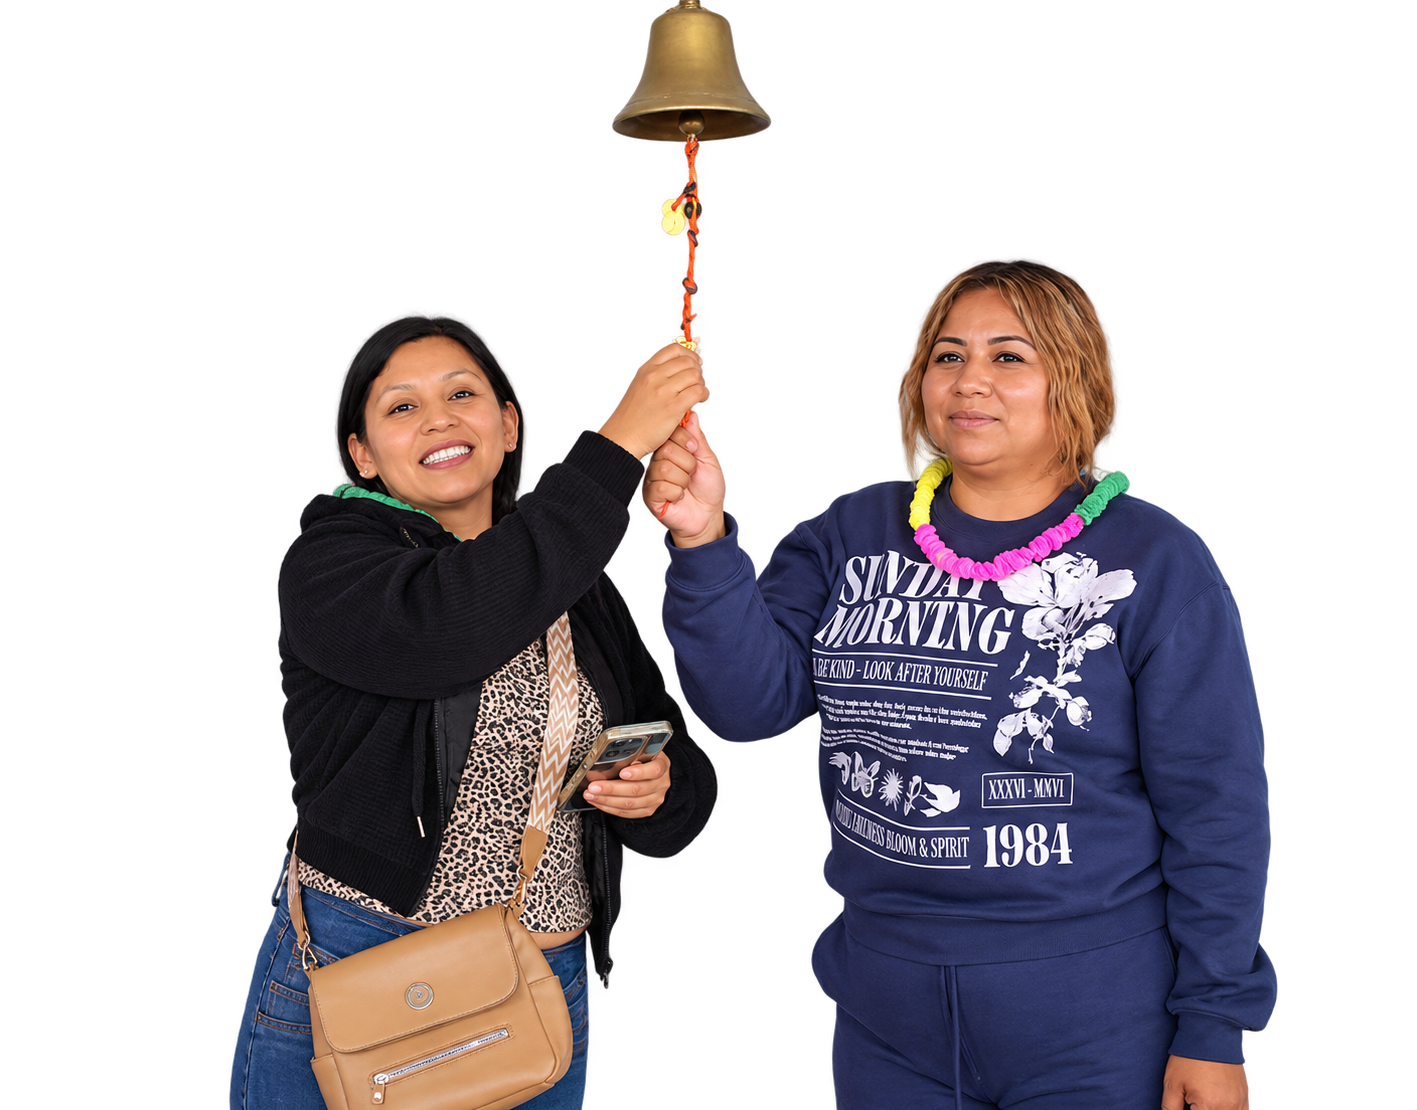
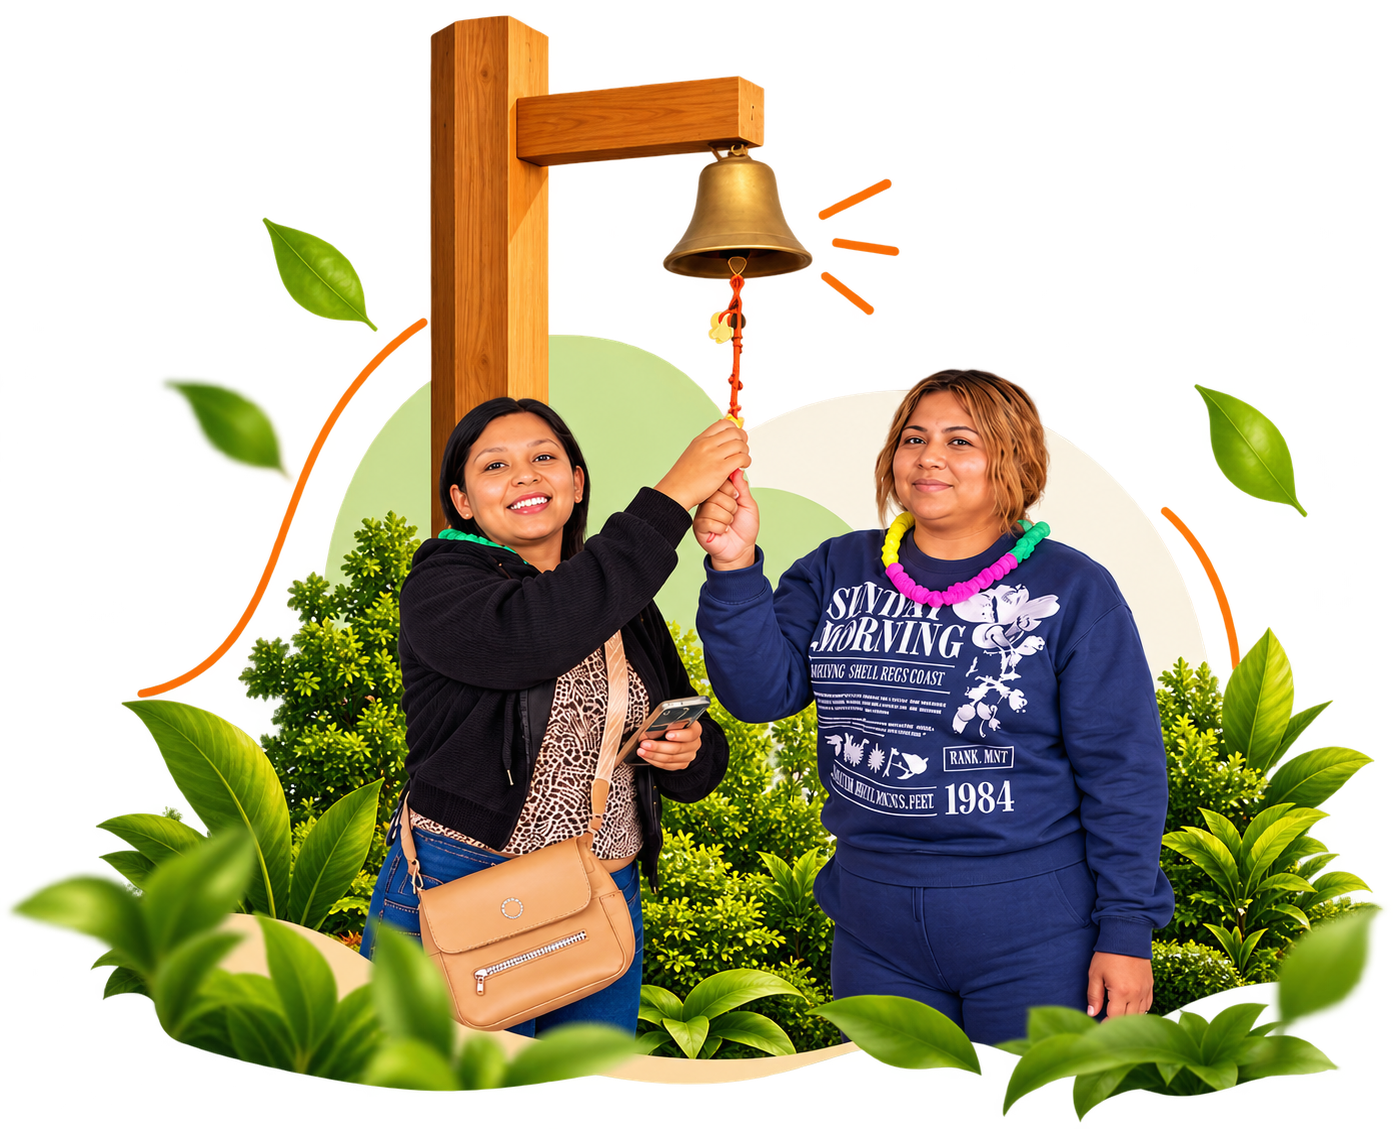
Add FAQ section and refine home page

diff --git a/src/app/features/home/components/faq/faq.component.html b/src/app/features/home/components/faq/faq.component.html
@@ -1,0 +1,91 @@
+<section id="preguntas-frecuentes" aria-labelledby="faq-title" class="relative isolate overflow-hidden bg-[#f4f1ea] px-5 py-16 text-[#1f1a14] sm:px-8 sm:py-20 lg:py-24">
+
+  <div class="relative mx-auto max-w-[1400px]">
+    <header class="mb-9 sm:mb-12">
+      <p class="mb-3 flex items-center gap-3 text-xs font-extrabold uppercase tracking-[0.18em] text-[var(--brand-tertiary)]">
+        <span class="h-1 w-12 bg-[var(--brand-primary)]" aria-hidden="true"></span>
+        Estamos para ayudarte
+      </p>
+      <h2 id="faq-title" class="m-0 text-balance font-serif text-[clamp(2.4rem,5vw,4rem)] font-semibold leading-[1.02] tracking-[-0.04em] text-[#0b442d]">
+        Conoce Montepinar y resuelve tus dudas
+      </h2>
+      <p class="mb-0 mt-4 max-w-4xl text-base leading-relaxed text-[#34433d]/80 sm:text-lg">
+        Te compartimos información clave en este video y resolvemos las preguntas más frecuentes para que avances con confianza en tu próximo terreno.
+      </p>
+    </header>
+
+    <div class="grid items-center gap-5 lg:grid-cols-[1.2fr_1fr] lg:gap-5">
+      <div class="relative aspect-[1.55] min-h-[18rem] overflow-hidden rounded-2xl bg-[#10271c] sm:aspect-[1.75] lg:min-h-[28rem]">
+        <video
+          #faqVideo
+          class="absolute inset-0 size-full object-cover"
+          poster="/images/entrada.png"
+          preload="none"
+          [controls]="videoPlaying()"
+          playsinline
+          aria-label="Video de presentación de los proyectos Montepinar"
+          (pause)="onVideoPause()"
+          (ended)="onVideoPause()"
+        >
+          <source src="/video/MONTEPINAR.mp4" type="video/mp4" />
+          Tu navegador no puede reproducir este video.
+        </video>
+        <div class="pointer-events-none absolute inset-0 bg-gradient-to-t from-[#10271c]/85 via-transparent to-transparent" aria-hidden="true"></div>
+        @if (!videoPlaying()) {
+          <button
+            type="button"
+            class="absolute left-1/2 top-1/2 grid size-[4.5rem] -translate-x-1/2 -translate-y-1/2 place-items-center rounded-full bg-white text-[var(--brand-primary)] shadow-xl transition-transform hover:scale-105 focus-visible:outline-none focus-visible:ring-4 focus-visible:ring-white/70 active:scale-95"
+            aria-label="Reproducir video de Montepinar"
+            (click)="playVideo(faqVideo)"
+          >
+            <span class="ml-1 text-3xl" aria-hidden="true">▶</span>
+          </button>
+        }
+        <p class="pointer-events-none absolute inset-x-6 bottom-5 m-0 font-serif text-xl font-bold leading-tight text-white sm:inset-x-8 sm:bottom-7 sm:text-2xl">
+          Conoce nuestros proyectos
+        </p>
+      </div>
+
+      <div class="rounded-2xl border border-[#10271c]/10 bg-white/35 px-5 sm:px-8">
+        <div class="divide-y divide-[#10271c]/15">
+          <details class="group py-5 sm:py-6">
+            <summary class="flex cursor-pointer list-none items-center justify-between gap-5 text-left text-base font-bold text-[#0b442d] marker:content-none sm:text-lg">
+              ¿Qué tipos de lotes ofrece Montepinar?
+              <span class="grid size-10 shrink-0 place-items-center rounded-full border border-[#10271c]/20 text-2xl font-normal leading-none text-[var(--brand-primary)] transition-transform group-open:rotate-45" aria-hidden="true">+</span>
+            </summary>
+            <p class="mb-0 max-w-2xl pr-10 pt-3 text-sm leading-relaxed text-[#1f1a14]/70 sm:text-base">
+              Contamos con distintas opciones según el proyecto y la etapa. Nuestro equipo puede ayudarte a conocer las áreas disponibles y encontrar la que mejor se ajuste a tus planes.
+            </p>
+          </details>
+          <details class="group py-5 sm:py-6">
+            <summary class="flex cursor-pointer list-none items-center justify-between gap-5 text-left text-base font-bold text-[#0b442d] marker:content-none sm:text-lg">
+              ¿Cómo puedo conocer las opciones de financiamiento?
+              <span class="grid size-10 shrink-0 place-items-center rounded-full border border-[#10271c]/20 text-2xl font-normal leading-none text-[var(--brand-primary)] transition-transform group-open:rotate-45" aria-hidden="true">+</span>
+            </summary>
+            <p class="mb-0 max-w-2xl pr-10 pt-3 text-sm leading-relaxed text-[#1f1a14]/70 sm:text-base">
+              Podemos orientarte sobre las alternativas disponibles para cada proyecto y explicarte los pasos para iniciar una compra.
+            </p>
+          </details>
+          <details class="group py-5 sm:py-6">
+            <summary class="flex cursor-pointer list-none items-center justify-between gap-5 text-left text-base font-bold text-[#0b442d] marker:content-none sm:text-lg">
+              ¿Puedo visitar el proyecto antes de decidir?
+              <span class="grid size-10 shrink-0 place-items-center rounded-full border border-[#10271c]/20 text-2xl font-normal leading-none text-[var(--brand-primary)] transition-transform group-open:rotate-45" aria-hidden="true">+</span>
+            </summary>
+            <p class="mb-0 max-w-2xl pr-10 pt-3 text-sm leading-relaxed text-[#1f1a14]/70 sm:text-base">
+              Sí. Escríbenos o solicita una asesoría para coordinar una visita y conocer el proyecto en persona.
+            </p>
+          </details>
+          <details class="group py-5 sm:py-6">
+            <summary class="flex cursor-pointer list-none items-center justify-between gap-5 text-left text-base font-bold text-[#0b442d] marker:content-none sm:text-lg">
+              ¿Cómo solicito más información?
+              <span class="grid size-10 shrink-0 place-items-center rounded-full border border-[#10271c]/20 text-2xl font-normal leading-none text-[var(--brand-primary)] transition-transform group-open:rotate-45" aria-hidden="true">+</span>
+            </summary>
+            <p class="mb-0 max-w-2xl pr-10 pt-3 text-sm leading-relaxed text-[#1f1a14]/70 sm:text-base">
+              Déjanos tus datos en el formulario de contacto y nuestro equipo se comunicará contigo para atender tus consultas.
+            </p>
+          </details>
+        </div>
+      </div>
+    </div>
+  </div>
+</section>

diff --git a/src/app/features/home/components/vision360/vision360.component.html b/src/app/features/home/components/vision360/vision360.component.html
@@ -1,14 +1,14 @@
-<section #root id="vision-360" class="bg-[var(--brand-tertiary)]  px-5 py-[clamp(4.5rem,8vw,7.5rem)] sm:px-8">
-  <div class="mx-auto max-w-7xl rounded-[2rem] px-5 py-10 text-white  sm:px-10 sm:py-14 lg:px-9 lg:py-16">
+<section #root id="vision-360" class="bg-accent py-[clamp(4.5rem,8vw,7.5rem)] text-[#1f1a14] ">
+  <div class="mx-auto w-[min(88%,1400px)]">
     <header data-vision-copy class="mb-9 max-w-3xl sm:mb-12">
-      <p class="mb-5 flex items-center gap-3 text-xs font-extrabold uppercase tracking-[0.16em] text-white/80">
+      <p class="mb-5 flex items-center gap-3 text-xs font-extrabold uppercase tracking-[0.16em] text-[var(--brand-tertiary)]">
         <span class="h-0.5 w-9 bg-[var(--brand-primary)]" aria-hidden="true"></span>
         Recorrido virtual
       </p>
       <h2 class="m-0 max-w-[14ch] text-balance text-[clamp(2.5rem,5vw,4.5rem)] font-extrabold leading-[1.02] tracking-[-0.045em]">
         Explora Montepinar en 360°
       </h2>
-      <p class="mb-0 mt-5 max-w-2xl text-pretty text-base leading-relaxed text-white/80 sm:text-lg">
+      <p class="mb-0 mt-5 max-w-2xl text-pretty text-base leading-relaxed text-[#1f1a14]/70 sm:text-lg">
         Entra al recorrido, elige las zonas que quieres conocer y desplázate por la vista para observar cada espacio.
       </p>
     </header>
@@ -40,19 +40,19 @@
       </p>
     </div>
 
-    <div class="mt-7 grid grid-cols-1 gap-5 border-t border-white/20 pt-6 sm:grid-cols-2 sm:gap-10 sm:pt-7">
+    <div class="mt-7 grid grid-cols-1 gap-5 border-t border-[#1f1a14]/15 pt-6 sm:grid-cols-2 sm:gap-10 sm:pt-7">
       <div data-vision-step class="flex items-start gap-4">
         <span class="grid size-10 shrink-0 place-items-center rounded-full bg-[var(--brand-primary)] text-sm font-extrabold text-[#1f1a14]" aria-hidden="true">01</span>
         <div>
           <h3 class="m-0 text-base font-extrabold">Elige una zona</h3>
-          <p class="mb-0 mt-1 text-sm leading-relaxed text-white/75 sm:text-base">Haz clic en los espacios señalados para entrar a cada área del proyecto.</p>
+          <p class="mb-0 mt-1 text-sm leading-relaxed text-[#1f1a14]/70 sm:text-base">Haz clic en los espacios señalados para entrar a cada área del proyecto.</p>
         </div>
       </div>
       <div data-vision-step class="flex items-start gap-4">
         <span class="grid size-10 shrink-0 place-items-center rounded-full bg-[var(--brand-primary)] text-sm font-extrabold text-[#1f1a14]" aria-hidden="true">02</span>
         <div>
           <h3 class="m-0 text-base font-extrabold">Mira a tu alrededor</h3>
-          <p class="mb-0 mt-1 text-sm leading-relaxed text-white/75 sm:text-base">Arrastra la vista para desplazarte y observar los detalles.</p>
+          <p class="mb-0 mt-1 text-sm leading-relaxed text-[#1f1a14]/70 sm:text-base">Arrastra la vista para desplazarte y observar los detalles.</p>
         </div>
       </div>
     </div>

diff --git a/src/app/features/home/components/introduccion/introduccion.component.html b/src/app/features/home/components/introduccion/introduccion.component.html
@@ -1,16 +1,16 @@
-<section #root id="nosotros"
-  class="bg-primary-foreground pt-[clamp(4.5rem,10vw,9rem)] text-[var(--brand-forest-900)]">
+<section #root id="nosotro  s"
+  class="bg-primary-foreground pt-[clamp(4.5rem,10vw,9rem)] text-[var(--brand-forest-900)] ">
   <div
-    class="mx-auto grid w-[min(88%,1400px)] items-center gap-12 pb-[clamp(4.5rem,9vw,8rem)] lg:grid-cols-[1.05fr_1fr] lg:gap-24">
-    <div data-images class="intro-visual relative min-h-[25rem] lg:min-h-[42rem]">
+    class="mx-auto grid w-[min(88%,1600px)] items-center gap-12 pb-[clamp(4.5rem,9vw,8rem)] lg:grid-cols-[1.05fr_1fr] lg:gap-24 ">
+    <div data-images class="relative min-h-[25rem] lg:min-h-[42rem]">
       <div
-        class="relative flex min-h-[25rem] w-full items-center justify-center overflow-hidden lg:absolute lg:inset-0 lg:min-h-0">
-        <img data-img class="relative z-[1] block h-auto w-full object-cover scale-115" src="/images/mujeres.png"
+        class="relative flex h-full w-full  overflow-hidden lg:absolute lg:inset-0 lg:min-h-0">
+        <img data-img class="relative z-[1] block h-auto w-full  object-cover" src="/images/mujeres.png"
           alt="Asesor explica el plano de Montepinar a una familia" loading="lazy" />
       </div>
     </div>
 
-    <div data-text class="">
+    <div data-text>
       <p data-reveal
         class="mb-5 flex items-center gap-3 text-xs font-extrabold uppercase tracking-[0.18em] text-[var(--brand-tertiary)]">
         <span class="h-0.5 w-9 bg-[var(--brand-primary)]" aria-hidden="true"></span>
@@ -52,8 +52,8 @@
   </div>
 
   <!-- Franja de cifras -->
-  <div data-stats class="overflow-hidden bg-primary text-white ">
-    <dl class="mx-auto m-0 grid max-w-330 grid-cols-2 px-3 py-4 sm:px-6 sm:py-6 lg:grid-cols-4">
+  <div data-stats class="relative isolate overflow-hidden bg-primary text-white">
+    <dl class="relative z-10 mx-auto m-0 grid max-w-330 grid-cols-2 px-3 py-4 sm:px-6 sm:py-6 lg:grid-cols-4">
       @for (s of stats; track s.label) {
       <div data-stat
         class="stats-item flex min-h-32 flex-col items-center justify-center px-3 py-5 text-center sm:min-h-36 sm:px-5 lg:min-h-40 lg:px-6 lg:border-l lg:border-white/10 lg:first:border-l-0">

diff --git a/src/app/features/home/components/resident-help/resident-help.component.html b/src/app/features/home/components/resident-help/resident-help.component.html
@@ -1,0 +1,22 @@
+<section aria-labelledby="resident-help-title" class="min-h-[34rem] overflow-hidden  bg-foreground text-white sm:min-h-[40rem] lg:min-h-[42rem]">
+  <div class="relative mx-auto flex min-h-[34rem]  items-center py-16 sm:min-h-[40rem] sm:py-20 lg:min-h-[56rem]">
+    <div class="pointer-events-none absolute inset-y-0 right-0 hidden w-[62%] md:block">
+      <img class="size-full object-cover object-right" src="/images/prueba2.png" alt="" aria-hidden="true" loading="lazy">
+    </div>
+    <div class="pointer-events-none absolute inset-0 bg-gradient-to-r from-[#10271c] via-[#10271c]/25 to-[#10271c]/10" aria-hidden="true"></div>
+    <div class="relative z-10 mx-auto w-[min(88%,1400px)]">
+      <div class="max-w-[48rem] md:w-[48%]">
+      <h2 id="resident-help-title" class="m-0 max-w-[13ch] font-serif text-[clamp(2.75rem,6vw,6rem)] font-normal leading-[0.98] tracking-[-0.045em]">
+        ¿No sabes por dónde empezar? Hablemos de tu próximo hogar.
+      </h2>
+      <p class="mb-0 mt-8 max-w-xl text-base leading-relaxed text-white/85 sm:mt-10 sm:text-lg">
+        Cuéntanos qué estás buscando y te ayudaremos a conocer nuestros proyectos y opciones de financiamiento.
+      </p>
+      <a href="#contacto" class="mt-7 inline-flex min-h-12 items-center gap-4 rounded-xl bg-[var(--brand-primary)] px-6 py-3 text-sm font-extrabold text-white no-underline shadow-lg shadow-black/20 transition-transform hover:-translate-y-0.5 hover:bg-[var(--brand-orange-600)] focus-visible:outline-none focus-visible:ring-2 focus-visible:ring-white focus-visible:ring-offset-2 focus-visible:ring-offset-[#1b211b] active:scale-[.98] motion-reduce:transition-none sm:mt-8 ">
+        Solicitar asesoría
+        <span aria-hidden="true">→</span>
+      </a>
+    </div>
+      </div>
+    </div>
+</section>

diff --git a/src/app/features/home/components/home/home.component.html b/src/app/features/home/components/home/home.component.html
@@ -1,7 +1,26 @@
 <app-main-banner></app-main-banner>
 <app-introduccion></app-introduccion>
 <app-proyects></app-proyects>
+<section aria-labelledby="financing-title" class="bg-[#f4f1ea] py-8 sm:py-10">
+  <div class="mx-auto grid min-h-60 w-[min(88%,1400px)] items-center gap-6 rounded-lg border border-[var(--brand-forest-100)] border-b-2 border-b-primary bg-[var(--brand-forest-50)] px-7 py-8 sm:px-10 md:grid-cols-[minmax(0,1fr)_auto] md:gap-12 md:px-14 md:py-10 lg:px-16">
+    <div class="w-140">
+      <p class="mb-2 text-xs font-extrabold uppercase tracking-[0.16em] text-[var(--brand-tertiary)]">Asesoría personalizada</p>
+      <h2 id="financing-title" class="m-0 text-balance text-2xl font-extrabold tracking-tight text-[var(--brand-forest-900)] sm:text-5xl">
+        ¿Tienes dudas sobre cómo financiar tu hogar?
+      </h2>
+      <p class="mb-0 mt-2 text-base leading-relaxed text-[var(--brand-forest-900)]/75">
+        Te orientamos para que conozcas las opciones disponibles.
+      </p>
+    </div>
+    <a href="#contacto" class="inline-flex min-h-12 w-fit items-center justify-center rounded-xl bg-[var(--brand-primary)] px-6 py-3 text-sm font-extrabold text-white no-underline transition-transform hover:-translate-y-0.5 focus-visible:outline-none focus-visible:ring-2 focus-visible:ring-[var(--brand-primary)] focus-visible:ring-offset-2">
+      Consultar opciones
+    </a>
+  </div>
+</section>
 <app-vision360></app-vision360>
-<app-testimonials></app-testimonials>
+<app-resident-help></app-resident-help>
 <app-gallery></app-gallery>
+<app-faq></app-faq>
 <app-contact-cta></app-contact-cta>
+
+<app-testimonials></app-testimonials>

diff --git a/src/app/features/home/components/proyects/proyects.component.html b/src/app/features/home/components/proyects/proyects.component.html
@@ -1,6 +1,7 @@
 <section #root id="proyectos" class="bg-[#f4f1ea]  py-[clamp(4.5rem,8vw,7.5rem)] text-[#1f1a14] ">
-  <div class="mx-auto grid w-[80%] grid-cols-1 gap-12 lg:grid-cols-[0.78fr_1.22fr] ">
-    <header class="h-fit lg:sticky lg:top-28 lg:self-start">
+  
+  <div class="mx-auto grid w-[min(88%,1400px)] grid-cols-1 gap-12 lg:grid-cols-[0.60fr_1.40fr] lg:gap-12 ">
+    <div class="h-fit lg:sticky lg:top-28 lg:self-start">
       <p class="mb-5 flex items-center gap-3 text-xs font-extrabold uppercase tracking-[0.16em] text-[var(--brand-tertiary)]">
         <span class="h-0.5 w-9 bg-[var(--brand-primary)]" aria-hidden="true"></span>
         Proyectos Montepinar
@@ -15,7 +16,7 @@
         class="mt-8 inline-flex min-h-12 items-center justify-center rounded-xl bg-[var(--brand-primary)] px-6 py-3 text-sm font-bold text-white no-underline transition-transform hover:-translate-y-0.5 focus-visible:outline-none focus-visible:ring-2 focus-visible:ring-[var(--brand-primary)] focus-visible:ring-offset-2">
         Recibir asesoría
       </a>
-    </header>
+    </div>
 
     <div class="grid min-w-0 grid-cols-1 gap-10 sm:gap-14">
       @for (project of projects; track project.name) {
@@ -47,3 +48,6 @@
     </div>
   </div>
 </section>
+
+
+

diff --git a/src/app/features/home/components/home/home.component.ts b/src/app/features/home/components/home/home.component.ts
@@ -3,12 +3,14 @@ import { MainBannerComponent } from '../main-banner/main-banner.component';
 import { IntroduccionComponent } from '../introduccion/introduccion.component';
 import { ProyectsComponent } from '../proyects/proyects.component';
 import { Vision360Component } from '../vision360/vision360.component';
+import { ResidentHelpComponent } from '../resident-help/resident-help.component';
 import { TestimonialsComponent } from '../testimonials/testimonials.component';
 import { GalleryComponent } from '../gallery/gallery.component';
 import { ContactCtaComponent } from '../contact-cta/contact-cta.component';
+import { FaqComponent } from '../faq/faq.component';
 
 @Component({
-  imports: [MainBannerComponent, IntroduccionComponent, ProyectsComponent, Vision360Component, TestimonialsComponent, GalleryComponent, ContactCtaComponent],
+  imports: [MainBannerComponent, IntroduccionComponent, ProyectsComponent, Vision360Component, ResidentHelpComponent, TestimonialsComponent, GalleryComponent, ContactCtaComponent, FaqComponent],
   selector: 'app-home',
   styleUrl: './home.component.css',
   templateUrl: './home.component.html',

diff --git a/src/app/features/home/components/contact-cta/contact-cta.component.html b/src/app/features/home/components/contact-cta/contact-cta.component.html
@@ -1,5 +1,5 @@
-<section aria-labelledby="contact-cta-title" class="bg-[#f4f1ea] px-5 py-8 text-white sm:px-8 sm:py-12">
-  <div class="contact-cta-panel relative mx-auto grid max-w-7xl items-center gap-10 overflow-hidden rounded-2xl bg-[#10271c] px-6 py-10 sm:px-10 sm:py-14 lg:min-h-[430px] lg:grid-cols-[1.25fr_0.75fr] lg:gap-14 lg:px-16">
+<section id="contacto" aria-labelledby="contact-cta-title" class="bg-[#f4f1ea] px-5 py-8 text-white sm:px-8 sm:py-12">
+  <div class="contact-cta-panel relative mx-auto grid  w-[min(88%,1400px)] items-center gap-10 overflow-hidden rounded-2xl bg-[#10271c] px-6 py-10 sm:px-10 sm:py-14 lg:min-h-[430px] lg:grid-cols-[1.25fr_0.75fr] lg:gap-14 lg:px-16">
     <img
       class="absolute inset-0 size-full object-cover"
       src="/images/PalmerasdeMontepinar.png"

diff --git a/src/app/features/home/components/gallery/gallery.component.html b/src/app/features/home/components/gallery/gallery.component.html
@@ -1,5 +1,5 @@
 <section #root id="galeria"
-  class="min-h-dvh bg-[#f4f1ea] py-10 pl-5 pr-0 text-[#1f1a14] sm:py-12 sm:pl-8 lg:py-12 lg:pl-[max(2rem,calc((100vw-76rem)/2))]">
+  class="min-h-dvh bg-[#f4f1ea] py-10 pl-5 pr-0 text-[#1f1a14] sm:py-12 sm:pl-8 lg:py-12 lg:pl-[max(2rem,calc((100vw-88.5rem)/2))]">
   <div
     class="grid min-h-[calc(100dvh-5rem)] w-full grid-cols-1 lg:min-h-[calc(100dvh-6rem)] lg:grid-cols-1 lg:items-center lg:gap-10">
     <header data-gallery-heading class="max-w-[30rem] pr-5 sm:pr-8 lg:pr-0">

diff --git a/src/app/features/home/components/testimonials/testimonials.component.html b/src/app/features/home/components/testimonials/testimonials.component.html
@@ -1,5 +1,5 @@
 <section #root id="testimonios" class="relative overflow-hidden bg-[#faf6f0] px-5 py-16 text-[#1f1a14] sm:px-8 sm:py-24">
-  <div class="mx-auto max-w-7xl px-9">
+  <div class="mx-auto w-[min(88%,1400px)]">
     <header data-testimonials-content class="mb-10 max-w-3xl md:mb-14">
       <p class="mb-4 flex items-center gap-3 text-xs font-extrabold uppercase tracking-[0.18em] text-[var(--brand-tertiary)]">
         <span class="h-px w-9 bg-[var(--brand-primary)]" aria-hidden="true"></span>

diff --git a/src/app/features/home/components/faq/faq.component.ts b/src/app/features/home/components/faq/faq.component.ts
@@ -1,0 +1,19 @@
+import { Component, signal } from '@angular/core';
+
+@Component({
+  imports: [],
+  selector: 'app-faq',
+  styleUrl: './faq.component.css',
+  templateUrl: './faq.component.html',
+})
+export class FaqComponent {
+  protected readonly videoPlaying = signal(false);
+
+  protected playVideo(video: HTMLVideoElement): void {
+    void video.play().then(() => this.videoPlaying.set(true));
+  }
+
+  protected onVideoPause(): void {
+    this.videoPlaying.set(false);
+  }
+}

diff --git a/src/app/features/home/components/resident-help/resident-help.component.ts b/src/app/features/home/components/resident-help/resident-help.component.ts
@@ -1,0 +1,9 @@
+import { Component } from '@angular/core';
+
+@Component({
+  imports: [],
+  selector: 'app-resident-help',
+  styleUrl: './resident-help.component.css',
+  templateUrl: './resident-help.component.html',
+})
+export class ResidentHelpComponent {}
